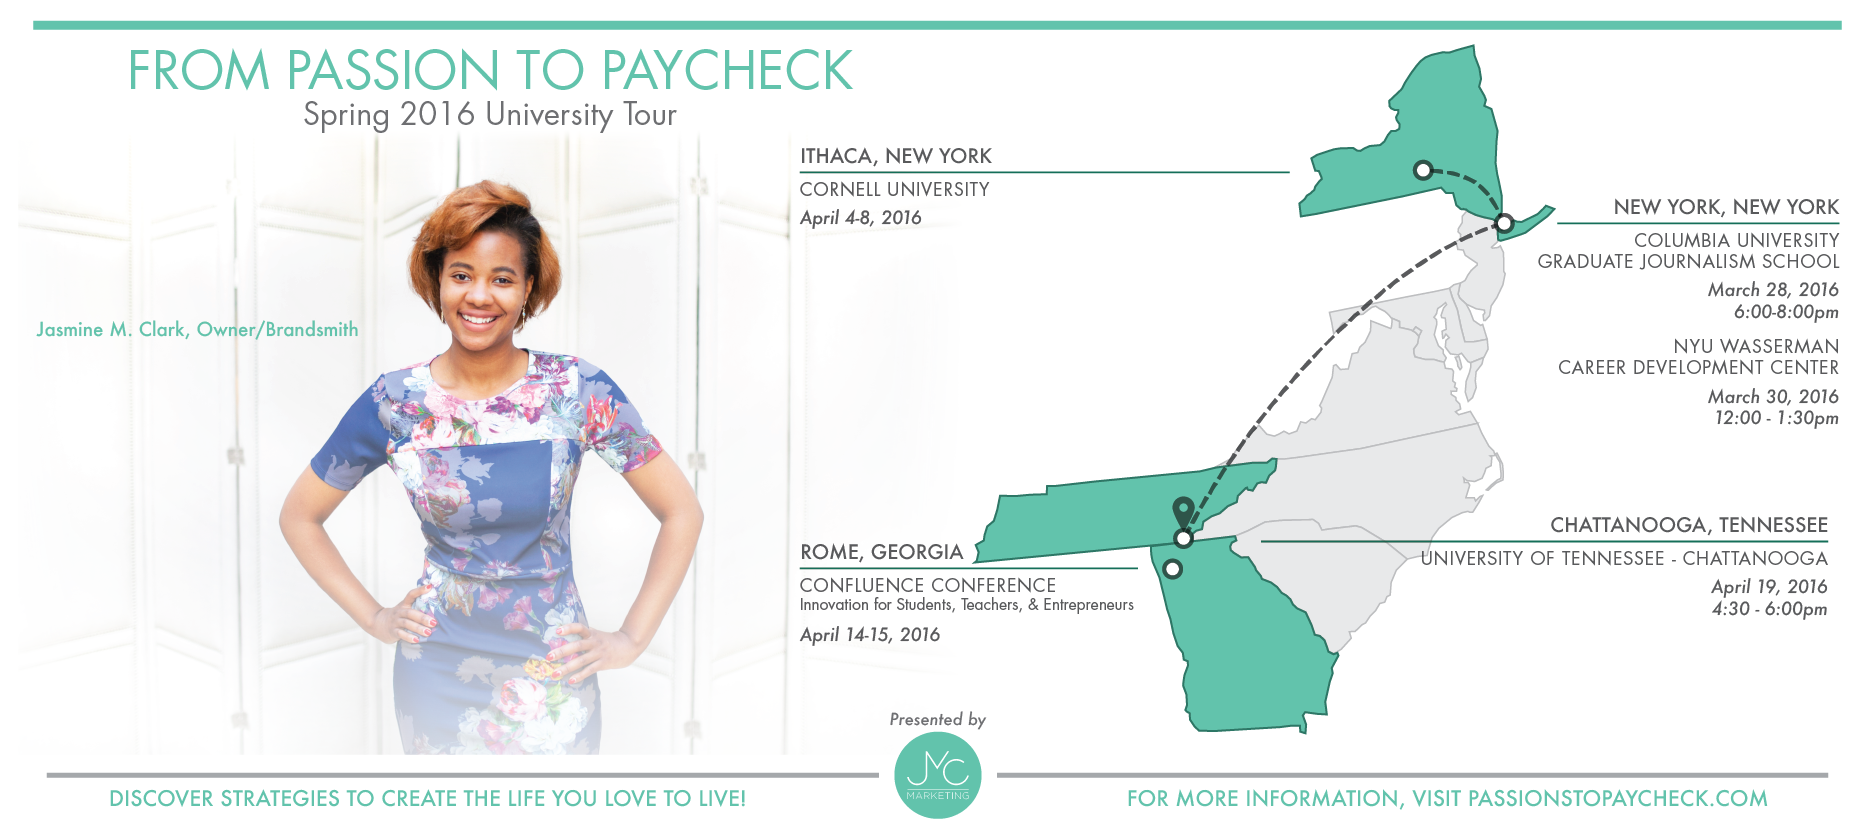
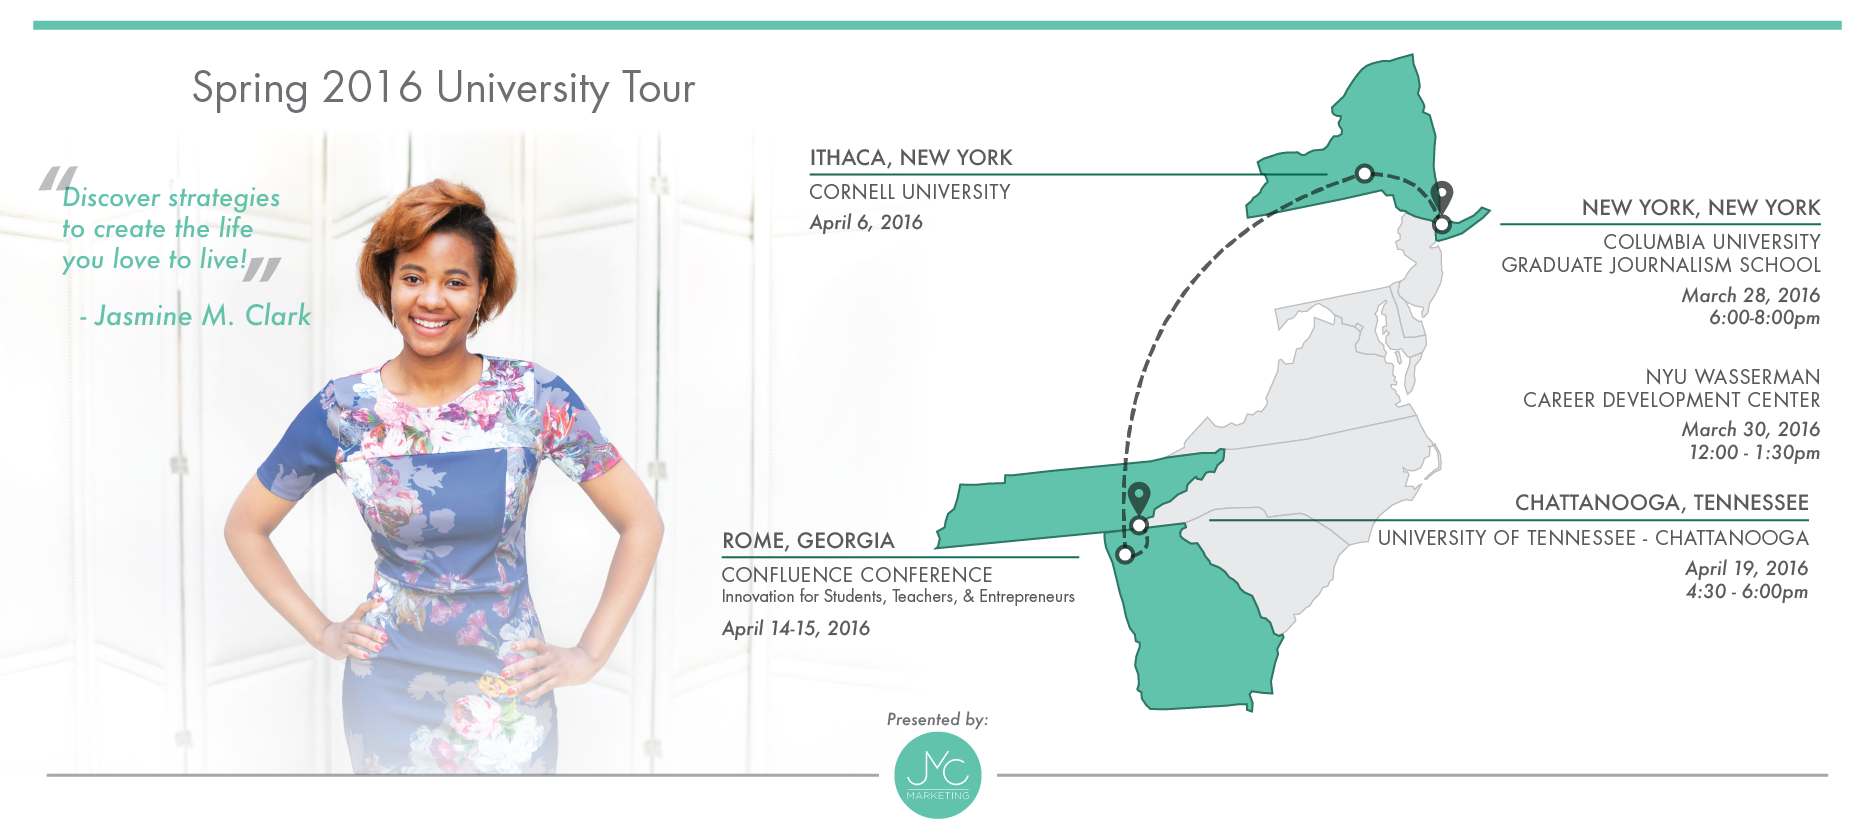
updated copy

diff --git a/css/style.css b/css/style.css
@@ -184,10 +184,16 @@ a,button{outline: none!important;} /* Prevent ugly blue glow on chrome and safar
 
 /* Bloc text custom styling */
 
+#bloc-1 {
+	font-family: Lato;
+	font-weight: 700;
+	}
+
 #bloc-1 h1{
 	font-family: Lato;
 	font-weight: 700;
 }
+
 #bloc-1 p{
 	font-size: 24px;
 }
@@ -200,11 +206,16 @@ a,button{outline: none!important;} /* Prevent ugly blue glow on chrome and safar
 	border-bottom: solid gray 3px;
 }
 
+#bloc-2 {
+	margin: 40px auto 100px auto;
+}
+
 #bloc-2 p{
 	font-size: 18px;
 	max-width: 740px;
 	display: block;
 	margin: 0 auto;
+	padding-bottom: 20px;
 }
 
 .introCopy ul {
@@ -239,10 +250,12 @@ a,button{outline: none!important;} /* Prevent ugly blue glow on chrome and safar
 
 .aboutCopy {
 	max-width: 540px;
+	font-size: 1.2em;
 }
 
 #bloc-7 {
 	padding: 30px 0;
+	margin-top: 50px;
 }
 
 #bloc-8 h1{
@@ -270,22 +283,31 @@ a,button{outline: none!important;} /* Prevent ugly blue glow on chrome and safar
 	padding-top: 25px;
 }
 
-.tourbtns {
+/*.tourbtns {
 	padding-top: 100px;
 }
-
+*/
 .bxslider1 {
-	max-width: 900px;
-	margin: 0 auto;
+	max-width: 1000px;
+	margin: 0 auto -60px auto;
 }
 
 .bxslider1 li {
-	max-width: 300px;
+	max-width: 250px;
+}
+
+.bxslider1 img {
+	margin: 0 auto;
+}
+
+.bxslider1 p {
+	font-size: 1.2em;
 }
 
 .bxslider2 p {
 	text-align: center;
 	padding: 20px 50px;
+	font-size: 1.2em;
 }
 
 .bxslider2 button {
@@ -723,5 +745,12 @@ iframe{
     }
     .video-bg-contianer{
         display:none;
+    }
+    .tourbtns {
+    	padding: none;
+    }
+    .bxslider1 li {
+    	max-width: 250px;
+    	margin: 0 -20px;
     }
 }

diff --git a/index.html b/index.html
@@ -81,7 +81,7 @@
 
 <!-- bloc-2 -->
 <div class="bloc l-bloc bgc-white b-parallax" id="bloc-2">
-	<div class="container bloc-lg">
+	<div class="container">
 		<div class="row">
 			<div class="col-sm-12">
 				<!-- <h3 class="mg-md text-center">
@@ -135,7 +135,7 @@
   	<div class="col-xs-1 tourbtns">
 	  <button class="prev">&lt;</button>
 	</div>
-	<div class="col-sm-10">
+	<div class="col-xs-10">
 	  <div class="bxslider1">
 		<ul>
   			<li>
@@ -150,8 +150,8 @@
   			<li>
 				<img src="img/school_logos/cornelllogo.png" class="center-block img-frame-md" height="180" />
 				<p class="mg-md text-center">
-					Cornell University<br>April 4, 2016<br>
-                    12:00 - 1:30 pm
+					Cornell University<br>April 6, 2016<br>
+               
 				</p>
 			</li>
   			<li>
